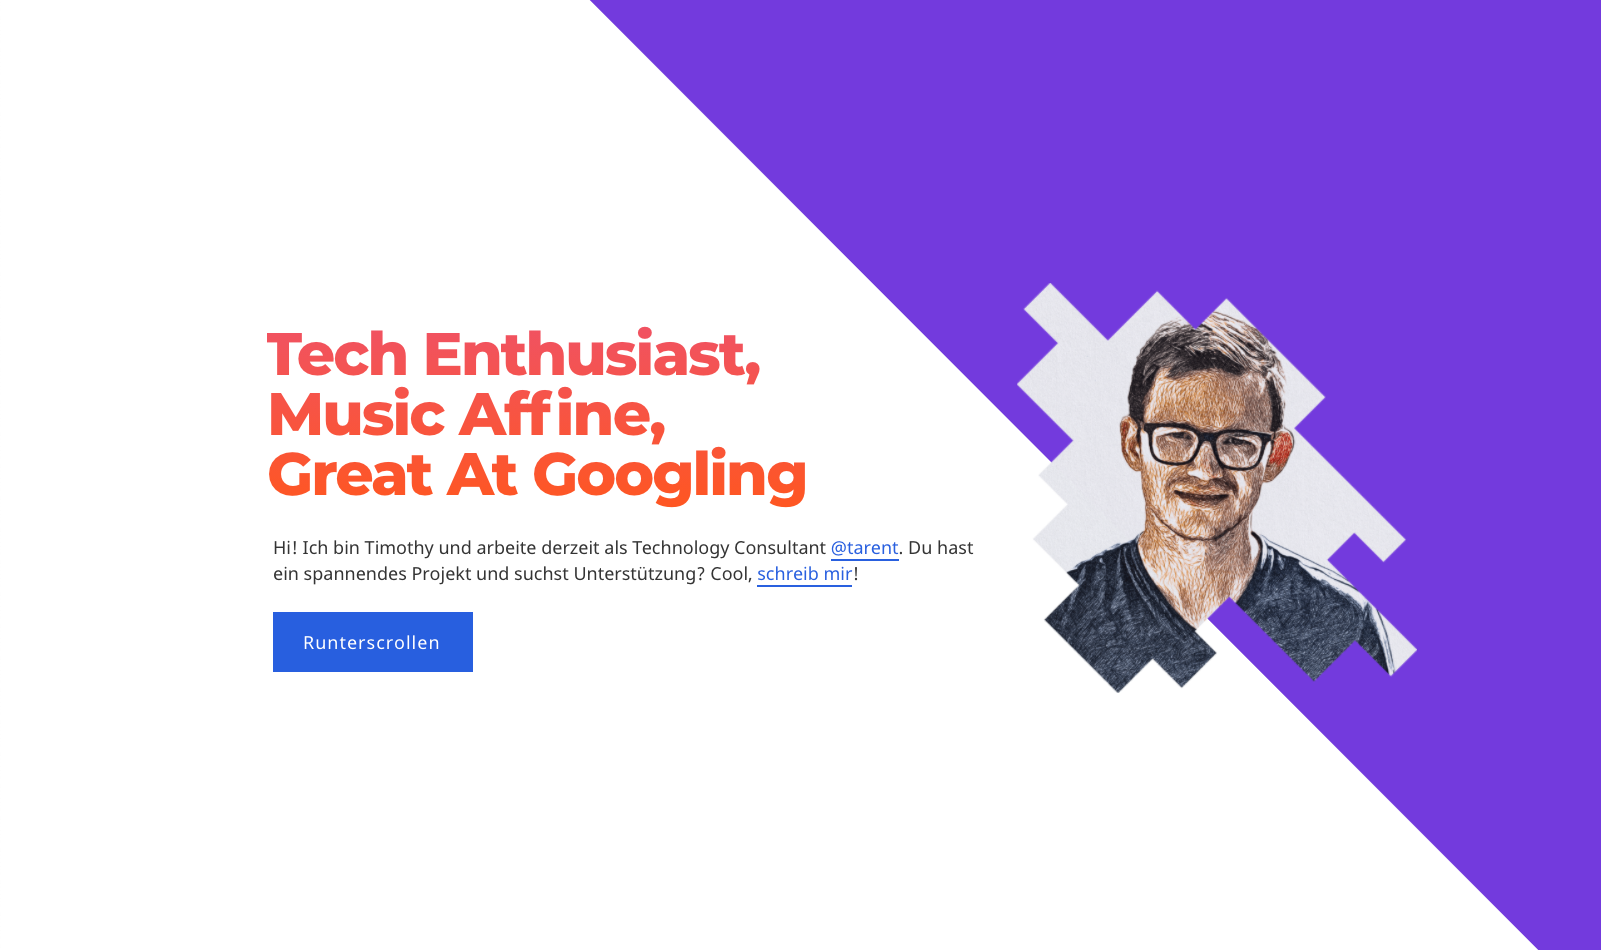
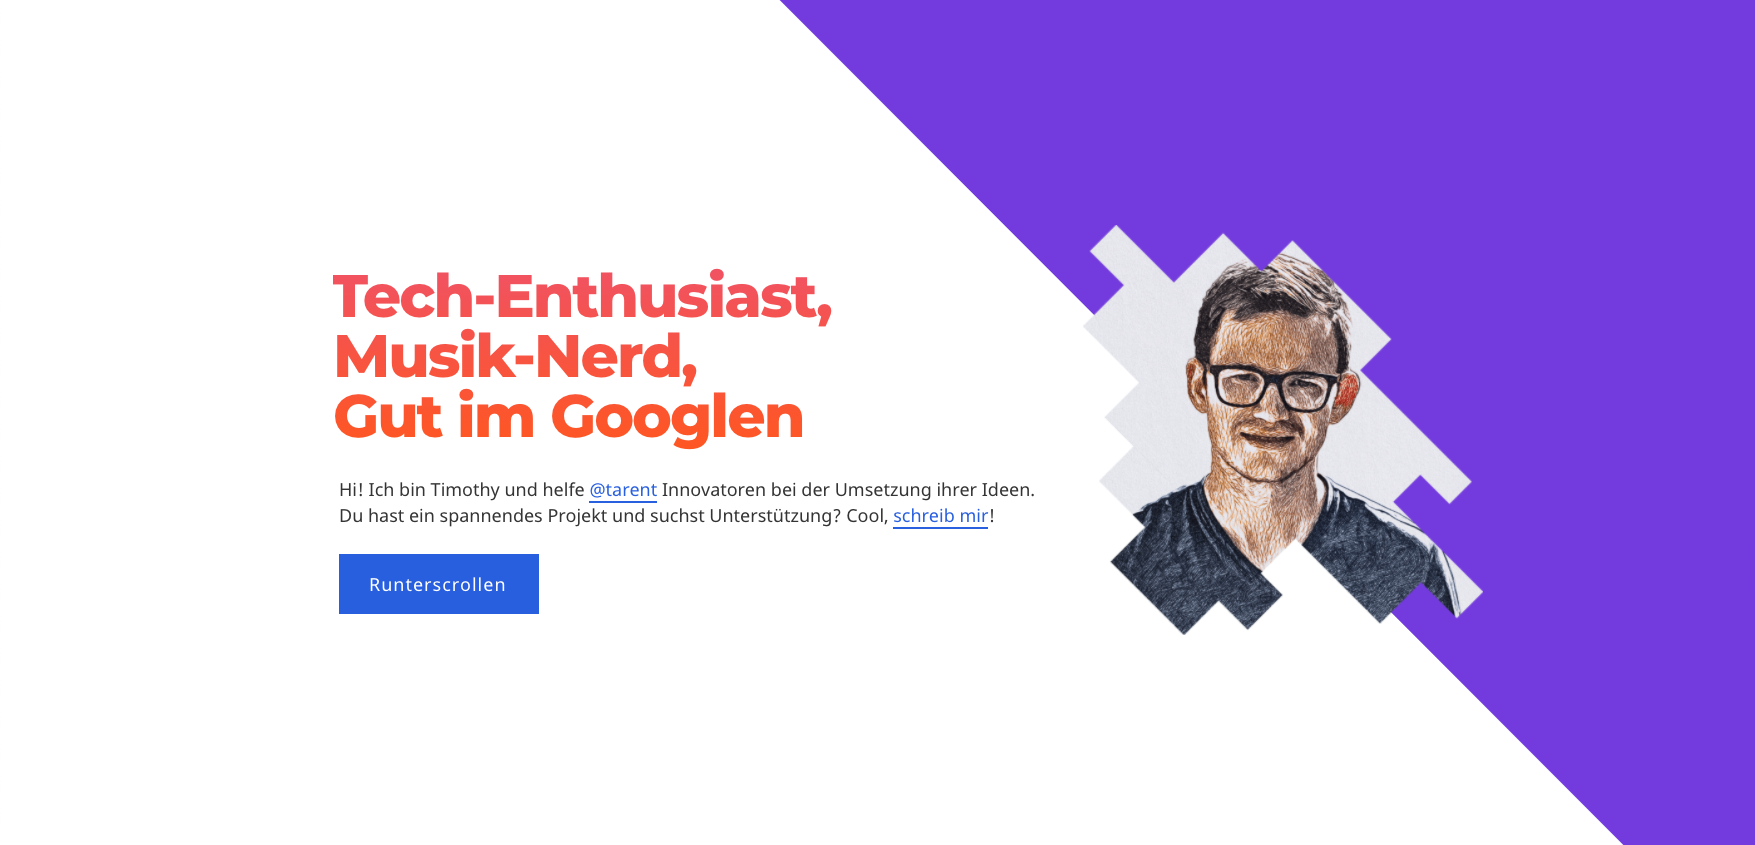
change some texts

Changed region(s): [[0.1562, 0.0, 0.9681, 1.0]]

diff --git a/src/components/politics/politics.js b/src/components/politics/politics.js
@@ -167,8 +167,8 @@ export default () => {
               ermöglichen; sei es durch ein faireres Steuersystem, eine
               Abschaffung der Sanktionspolitik im Sozialsystem oder ein
               bedingungsloses Grundeinkommen. Ich möchte einen Beitrag dazu
-              leisten und deswegen ist es mein langfristiges Ziel, Bundespolitik
-              aktiv mitzugestalten.
+              leisten und deswegen ist es mein Ziel, den gesellschaftlichen
+              Diskurs aktiv mitzugestalten.
             </p>
           </Fade>
         </Text>
@@ -196,7 +196,7 @@ export default () => {
                     von Selbstwert, Gemeinschaft und Würde gibt, ihren Talenten
                     entspricht und Freude bereitet. Dafür braucht es mit
                     Autonomie, Selbstwirksamkeit und Sinnhaftigkeit die
-                    richtigen Umstände
+                    richtigen Umstände.
                   </p>
                 </CardTitle>
               </Card>

diff --git a/src/components/nav/nav.js b/src/components/nav/nav.js
@@ -17,7 +17,7 @@ export const Nav = () => {
   return (
     <Navigation>
       <NavItem to={`/#bio`}>Über Mich</NavItem>
-      <NavItem to={`/#showcase`}>Projekte</NavItem>
+      <NavItem to={`/#showcase`}>Code &amp; Co.</NavItem>
       <NavItem to={`/#politics`}>Politik</NavItem>
       <NavItem to={`/blog`}>Blog</NavItem>
       <NavItem to={`#contact`}>Kontakt</NavItem>
@@ -86,7 +86,7 @@ export const MobileNav = ({ open, handler }) => (
         Über Mich
       </MobileNavItem>
       <MobileNavItem to={`/#showcase`} handler={handler}>
-        Projekte
+        Code &amp; Co.
       </MobileNavItem>
       <MobileNavItem to={`/#politics`} handler={handler}>
         Politik

diff --git a/src/components/showcase/showcase.js b/src/components/showcase/showcase.js
@@ -98,9 +98,9 @@ export default () => {
         <Fade bottom distance="50px">
           <Title>
             <h1>
-              Proj-
+              Code
               <br />
-              ekte
+              &amp; Co.
             </h1>
           </Title>
         </Fade>
